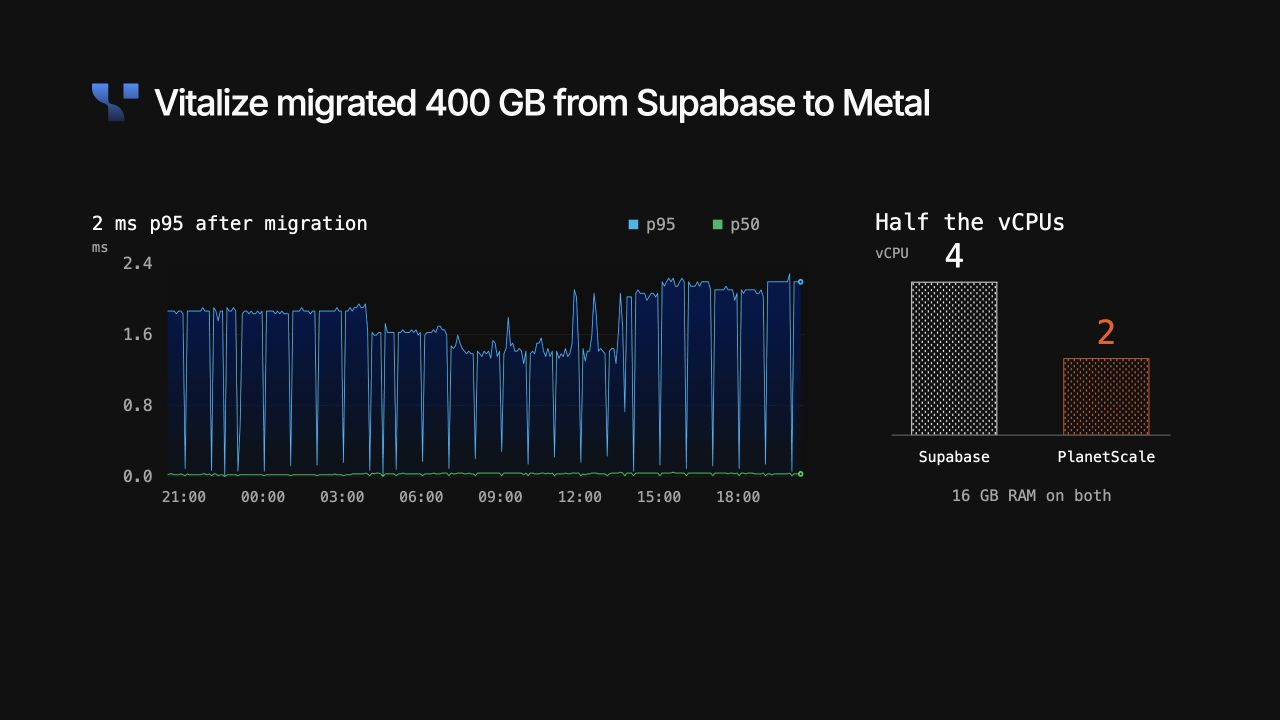
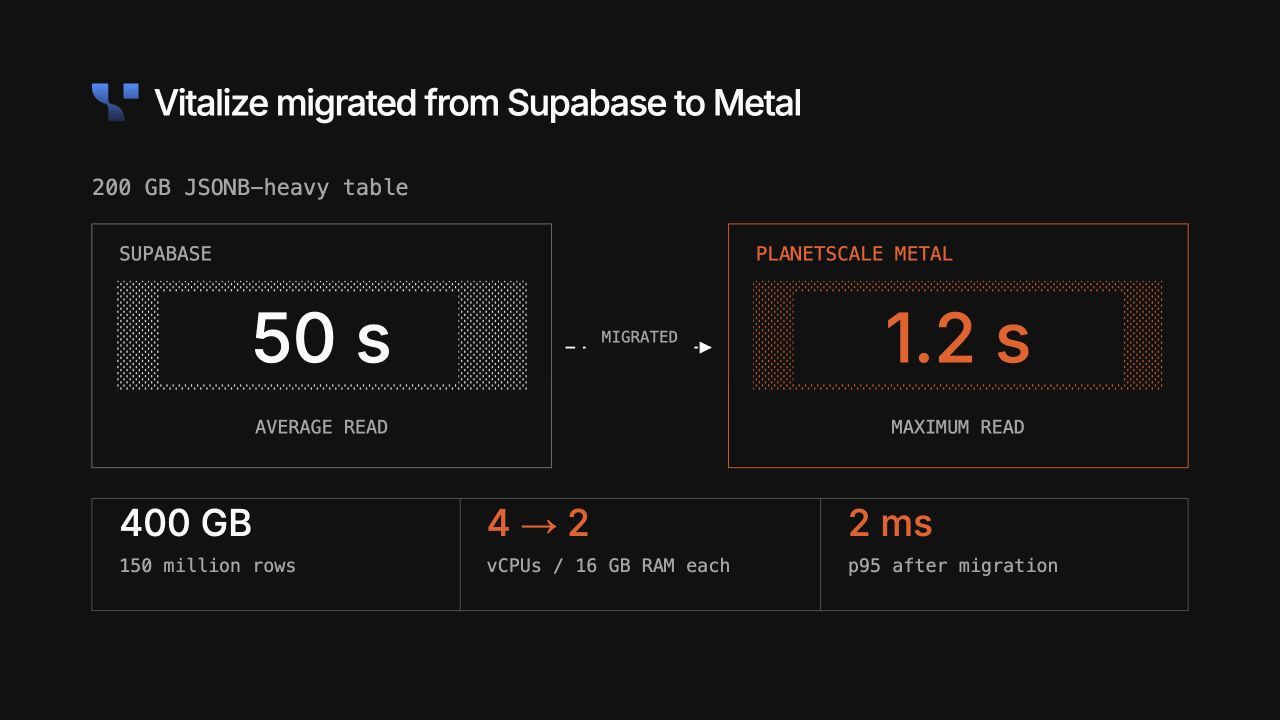
Replace Vitalize post-migration chart with reported before-after story

diff --git a/theme.css b/theme.css
@@ -184,3 +184,7 @@ dialog button{padding:10px 20px;background:#f35815;color:white;border:0;font:15p
 .vitalize-charts{margin-top:50px;padding-top:0;border-top:0;gap:54px}
 .vitalize-charts svg{height:445px}
 .vitalize-charts>div:last-child{border-left:0;padding-left:0}
+
+/* Customer-reported migration comparison replaces the post-migration-only trace. */
+.vitalize-art{margin-top:42px}
+.vitalize-art svg{width:100%;height:auto}

diff --git a/build_content.py b/build_content.py
@@ -89,24 +89,28 @@ b+='</g>'
 b+=txt(575,499,'seconds',16,GRAY,'end',mono=True)
 latency=svg(600,505,b,'One-second benchmark p99 latency samples over 300 seconds, 32 connections. PlanetScale 170.48 to 223.34 ms; Aurora 325.98 to 733 ms; AlloyDB 277.21 to 1235.62 ms; Supabase 196.89 to 1561.52 ms. Linear axis from zero to 1200 milliseconds; values above 1200 are clipped.',mark='p99')
 
-# Vitalize: the customer's original Query Insights plot, not an invented series.
-b=txt(0,24,'2 ms p95 after migration',22,WHITE)
-b+=rect(618,12,11,11,'#00b6ec','none')+txt(638,24,'p95',19,GRAY)+rect(715,12,11,11,'#00b868','none')+txt(735,24,'p50',19,GRAY)
-b+='<defs><clipPath id="vitalize-plot-clip"><rect x="87" y="63" width="737" height="245"/></clipPath></defs><image href="assets/vitalize-query-latency.png" x="12.124" y="-185.969" width="829.865" height="593.918" preserveAspectRatio="none" clip-path="url(#vitalize-plot-clip)"/>'
-for v in [0,0.8,1.6,2.4]:
-    y=308-v/2.4*245
-    b+=txt(70,y+6,f'{v:.1f}',19,GRAY,'end')
-b+=txt(0,49,'ms',16,GRAY)
-for i,label in enumerate(['21:00','00:00','03:00','06:00','09:00','12:00','15:00','18:00']):
-    source_tick=[282,556,830,1103.5,1377,1652,1926,2200][i]
-    b+=txt(87+(source_tick-225)*737/2215,337,label,17,GRAY,'middle')
-vitalize_latency=svg(850,350,b,'Vitalize published 24-hour Query Insights plot: p95 in blue, p50 in green. The original plotted image is preserved.',mark='v-latency')
-b=txt(0,24,'Half the vCPUs',26,WHITE)+txt(0,56,'vCPU',16,GRAY)
-for x,n,provider,col,pat in [(42,4,'Supabase',WHITE,'dots'),(217,2,'PlanetScale',ORANGE,'accent')]:
-    top=260-n*44
-    b+=rect(x,top,98,n*44,f'url(#v-compute-{pat})',col)+txt(x+49,top-17,str(n),38,col,'middle')+txt(x+49,291,provider,17,WHITE,'middle')
-b+=path('M19 260H340','#777777',1)+txt(180,336,'16 GB RAM on both',18,GRAY,'middle')
-vitalize_compute=svg(360,350,b,'Compute comparison: Supabase 4 vCPU, PlanetScale Metal 2 vCPU. Both have 16 GB RAM.',mark='v-compute')
+# Vitalize: customer-reported before/after, with unlike read statistics labeled explicitly.
+b=txt(0,30,'200 GB JSONB-heavy table',25,GRAY)
+b+=rect(0,63,524,278,INK,'#777777')
+b+=rect(726,63,524,278,INK,ORANGE)
+b+=txt(31,105,'SUPABASE',22,GRAY)
+b+=txt(757,105,'PLANETSCALE METAL',22,ORANGE)
+b+=rect(28,128,468,125,'url(#vitalize-art-dots)','none')
+b+=rect(754,128,468,125,'url(#vitalize-art-accent)','none')
+b+=rect(76,140,342,105,INK,'none')
+b+=rect(800,140,376,105,INK,'none')
+b+=txt(262,221,'50 s',78,WHITE,'middle',500,False)
+b+=txt(988,221,'1.2 s',78,ORANGE,'middle',500,False)
+b+=txt(262,302,'AVERAGE READ',21,GRAY,'middle')
+b+=txt(988,302,'MAXIMUM READ',21,GRAY,'middle')
+b+=path('M540 204H706',WHITE,2,True,arrow='vitalize-art')
+b+=rect(563,169,124,42,INK,'none')+txt(625,198,'MIGRATED',18,GRAY,'middle')
+b+=rect(0,376,1250,128,INK,'#555555')
+b+=path('M420 376V504','#555555',1)+path('M831 376V504','#555555',1)
+b+=txt(31,419,'400 GB',42,WHITE,weight=500,mono=False)+txt(31,460,'150 million rows',21,GRAY)
+b+=txt(450,419,'4 → 2',42,ORANGE,weight=500,mono=False)+txt(450,460,'vCPUs / 16 GB RAM each',21,GRAY)
+b+=txt(862,419,'2 ms',42,ORANGE,weight=500,mono=False)+txt(862,460,'p95 after migration',21,GRAY)
+vitalize_art=svg(1250,510,b,'Vitalize moved 400 GB and 150 million rows from Supabase to PlanetScale Metal. On the same 200 GB JSONB-heavy table, Supabase reads averaged 50 seconds and PlanetScale reads maxed out at 1.2 seconds; these are different statistics, not a matched percentile comparison. Compute changed from four to two vCPUs at 16 GB RAM each. After migration, p95 was about two milliseconds.',mark='vitalize-art')
 
 # Migration close: one destination, with a choice of delivery ownership.
 b=db(1,8,380,112,WHITE)
@@ -174,7 +178,7 @@ autumn_plot=svg(905,510,b,'Autumn query latency: approximately 100 milliseconds 
 
 slides=[
  dict(id='opening',label='PlanetScale Postgres on Metal',theme='opening',html=f'''<h1>Postgres on <span class="accent">Metal</span></h1><div class="opening-architecture">{servers}</div>''',notes="1:15. “PlanetScale brings together the database, the hardware, and the team operating it. For your workload, we are proposing fully managed Postgres on Metal, with local NVMe storage. Our platform handles database operations, and our infrastructure team works with you on migration and production.” Point to Neki briefly: “For workloads that eventually outgrow one machine, Neki is our sharded Postgres product.” This is a product overview, not a query path or an automatic upgrade flow. Do not describe replica topology or control-plane internals here; slide 3 covers the architecture. Neki is in Platform Preview and requires a separate compatibility and migration assessment. The immediate offer remains hosted Postgres on Metal. Ask: “Where is your team spending the most time with Postgres today?” Transition: “Vitalize is one Postgres team that made this move.” Sources: https://planetscale.com/metal ; https://planetscale.com/docs/neki ; https://planetscale.com/blog/benchmarking-postgres."),
- dict(id='vitalize',label='Vitalize: 2 ms p95, half the vCPUs',theme='vitalize',html=f'''<div class="case-heading vitalize-heading"><span class="vitalize-title-symbol"><img src="assets/vitalize-symbol.svg" alt=""></span><h2>Vitalize migrated 400 GB from Supabase to Metal</h2></div><div class="vitalize-charts"><div>{vitalize_latency}</div><div>{vitalize_compute}</div></div>''',notes='1:45. “Vitalize runs hospital staffing software. They moved a 400 GB Postgres database with 150 million rows from Supabase to PlanetScale Metal. They report about 2 ms p95 on half the vCPUs, with the same 16 GB of RAM.” Tell the customer story before explaining the graphs: demanding database reads, the move, then the result. The latency plot is their actual PlanetScale Query Insights capture after migration, not a paired before/after percentile. No comparable Supabase p95 is published. The 200 GB JSONB-heavy table comparison separately reports 50-second average reads before and 1.2-second maximum reads after; do not calculate a speedup from unlike statistics. The cutover included taking the app offline. These are customer-reported outcomes, not a guarantee. Transition: “Here is the platform operating that database.” Source: https://vitalize.care/blog/from-supabase-to-planetscale . Other cases and suitable alternatives: docs/customer-case-studies.md.'),
+ dict(id='vitalize',label='Vitalize: 2 ms p95, half the vCPUs',theme='vitalize',html=f'''<div class="case-heading vitalize-heading"><span class="vitalize-title-symbol"><img src="assets/vitalize-symbol.svg" alt=""></span><h2>Vitalize migrated from Supabase to Metal</h2></div><div class="vitalize-art">{vitalize_art}</div>''',notes='1:45. “Vitalize moved a 400 GB Postgres database with 150 million rows from Supabase to PlanetScale Metal. Their 200 GB JSONB-heavy table had reads averaging 50 seconds on Supabase; after the move, they reported reads maxing out at 1.2 seconds on PlanetScale. Those are different summary statistics—average versus maximum—not a like-for-like percentile benchmark. Do not calculate a precise speedup from them. On the same 16 GB RAM, they moved from four vCPUs on Supabase to two on PlanetScale. They report about 2 ms p95 after migration, but do not publish a Supabase p95 comparison. They also reported fewer than 150 usable connections and over 60% CPU time in I/O wait before the move; connections became manageable after. Their cutover involved scaling the app to zero while replication caught up, so do not claim an uninterrupted app cutover despite the blog headline. This is their reported experience, not a performance or migration guarantee. Ask which query, connection, or I/O limit most resembles the prospect’s workload. Transition: “Autumn shows how a team made the migration with PlanetScale.” Source: https://vitalize.care/blog/from-supabase-to-planetscale . Other cases: docs/customer-case-studies.md.'),
  dict(id='availability',label='Postgres Cluster Architecture',theme='availability',html=f'''<div class="title-with-stat"><h2>Postgres Cluster Architecture</h2><div class="sla"><strong>99.99<span>%</span></strong><p>single-region HA SLA</p></div></div><div class="ha-diagram">{ha}</div>''',notes="2:00. “This is one highly available Postgres cluster: three database nodes, each in a different availability zone within the same region. One node is primary; the other two are replicas.” A node (also called an instance in PlanetScale documentation) is an individual database server. An availability zone is the cloud location and failure boundary hosting that node. The whole deployment is a cluster, not one node. A, B, and C are schematic zone labels, not literal provider zone IDs. This depicts the standard three-node HA configuration; additional replicas are possible. Trace application connections, then replication, then operations. The two connection boxes are logical routing choices, not a claim of separate DNS endpoints. Replica reads are explicitly selected with a replica credential/username suffix on direct port 5432; reads must tolerate replication lag. Default PgBouncer connections on 6432 route to the primary; dedicated replica PgBouncers are a separate option. Semi-synchronous replication requires durable confirmation from at least one replica before commit success is returned. PlanetScale's custom Kubernetes operator manages the cluster's provisioning, health, failover, resizing, and upgrades; it is outside the SQL query path. Failovers can interrupt connections, so applications need retries. The 99.99% figure is the single-region monthly uptime commitment under the applicable SLA; it excludes single-node clusters and beta features. Hosted Postgres on Metal remains the offer. Transition: “Local NVMe is the hardware foundation. Let's look at its performance under load.” Verified 2026-09-27. Sources: https://planetscale.com/docs/postgres/postgres-architecture ; https://planetscale.com/docs/postgres/operations-philosophy ; https://planetscale.com/docs/postgres/scaling/replicas ; https://planetscale.com/legal/planetscale-service-level-agreement . Durable terminology: docs/postgres-architecture.md."),
  dict(id='metal',label='Postgres on Metal: throughput and p99',theme='metal',html=f'''<div class="metal-heading"><h2>More QPS &amp; Lower p99 on <span class="metal-title-brand"><span class="metal-title-symbol"><img src="assets/planetscale-white.svg" alt="PlanetScale"></span><span class="accent">Metal</span></span></h2></div><div class="benchmark-grid"><div><h3>Throughput (QPS)</h3>{bars}</div><div><h3>p99 latency</h3><div class="chart-legend"><span class="ps-dot">PlanetScale</span><span class="aurora-dot">Aurora</span><span class="alloydb-dot">AlloyDB</span><span class="supabase-dot">Supabase</span></div>{latency}</div></div>''',notes="1:45. “In this mixed read/write benchmark, Postgres on Metal delivers more throughput and lower p99 than these tested configurations. We can evaluate the same questions against your application.” Left: arithmetic mean QPS across 300 one-second samples with 32 concurrent connections: PlanetScale 16,338.6276; Aurora 10,908.9315; AlloyDB 10,355.0109; Supabase 5,270.2068. Right: one-second interval p99 samples from the same TPCC-like benchmark, not an aggregate run-wide percentile. PlanetScale ranges 170.48–223.34 ms; Aurora 325.98–733 ms; AlloyDB 277.21–1,235.62 ms; Supabase 196.89–1,561.52 ms. All four traces use the matching 32-connection run, with all 300 samples retained and a shared linear 0–1,200 ms axis. Values above 1,200 ms are visually clipped, not changed in the source data. Each provider was benchmarked separately; the horizontal axis is elapsed run time, not simultaneous wall-clock time. Explain the workload aloud: mixed reads and writes, about 500 GB, 32 concurrent connections, five minutes. Higher QPS and lower p99 are distinct findings.\n\nTESTED DATABASE MACHINES (per node)\n- PlanetScale Postgres on Metal: M-320 on AWS i8g; 4 vCPUs, 32 GB RAM, 937 GB local NVMe; AWS us-east-1. Published IOPS setting: unlimited (no separately provisioned IOPS tier, not infinite physical capacity).\n- Amazon Aurora PostgreSQL: db.r8g.xlarge; 4 vCPUs, 32 GB RAM; autoscaling Aurora storage and IOPS; AWS us-east-1.\n- Google AlloyDB: N2; 4 vCPUs, 32 GB RAM; autoscaling storage; IOPS listed as N/A; GCP us-central1.\n- Supabase: 2XLARGE; 8 vCPUs, 32 GB RAM, 750 GB provisioned EBS; IOPS increased to 12,000; AWS us-east-1. Supabase has twice the vCPUs to match the RAM, so the configurations are not identical.\n\nBENCHMARK CLIENT MACHINES\n- AWS tests: c6a.xlarge, 4 vCPUs and 8 GB RAM, in us-east-1.\n- GCP / AlloyDB test: e2-standard-4, 4 vCPUs and 16 GB RAM, in us-central1.\n- Clients run in the same region as their database. Same availability-zone placement is not guaranteed for this TPCC-like test.\n\nRUN SETTINGS\n- Percona sysbench TPCC-like mixed reads and writes; approximately 500 GB; TABLES=20, SCALE=250.\n- This slide selects 32 concurrent connections, 300 seconds, one-second reports, and p99.\n- PostgreSQL settings use provider defaults except connection limits/timeouts where needed for the benchmark.\n- PlanetScale has a primary and two HA replicas, each with the listed resources. The measured load uses the primary only; the graph does not sum throughput across three nodes.\n\nINTERPRETATION\n These are vendor-run synthetic results with different hardware and infrastructure, not isolated proof that NVMe causes every difference. The site's rounded ~18k headline spans other runs; this deck deliberately uses a single concurrency and exact samples. A separate read-only test has roughly equal average throughput for Aurora and PlanetScale, so do not claim every workload is faster by this ratio. Ask: “Which workload would we need to reproduce for this to matter to you?” Validate p95/p99, throughput, errors, and resource use in discovery. Transition: “When one machine becomes the constraint, Neki extends the architecture across Postgres shards.” Sources: https://planetscale.com/benchmarks ; https://planetscale.com/benchmarks/aurora ; https://planetscale.com/benchmarks/alloydb ; https://planetscale.com/benchmarks/supabase . Data definitions: docs/postgres-metal-benchmarks.md."),
  dict(id='neki',label='Neki: Horizontal Scaling for Postgres',theme='neki',html=f'''<div class="neki-heading"><h2>Neki: Horizontal Scaling for Postgres</h2><div class="neki-lockup"><img src="assets/neki-cat.svg" alt="Neki"></div></div><div class="neki-topology">{neki}</div>''',notes="1:15. “Neki is our sharded Postgres architecture. Every shard is real Postgres, with routing and operations managed as one database.” Walk from the application to the router, then one shard group, then the control plane. Sidecars pool connections; shard primaries and replicas carry data. The diagram represents replicated HA shard groups, not the primary-only benchmark on the next slide. Say that Neki is available in Platform Preview as of the verified documentation on 27 September 2026; it is not covered by an SLA. The public site's “now available” wording does not mean general availability. Cross-shard transactions remain listed as coming soon. Evaluate shard keys, query/transaction compatibility and the transition from the current database with the team. Do not imply an automatic in-place conversion from ordinary PlanetScale Postgres. The immediate sale remains hosted Postgres on Metal. Transition: “The benchmark demonstrates how far this architecture can scale for a defined workload.” Sources: https://neki.dev/ ; https://planetscale.com/docs/neki ; https://planetscale.com/blog/the-architecture-of-neki ."),
@@ -191,7 +195,6 @@ slides=[slides_by_id[slide_id] for slide_id in slide_order]
 notes_fixes={
  'opening': [('slide 3 covers the architecture','slide 5 covers the architecture'),('Transition: “Vitalize is one Postgres team that made this move.”','Transition: “Convex is one production team that moved from Aurora.”')],
  'convex': [('Transition: “Autumn shows what the migration partnership can look like.”','Transition: “Vitalize is another Postgres workload that moved to Metal.”')],
- 'vitalize': [('Transition: “Here is the platform operating that database.”','Transition: “Autumn shows how a team made the migration with PlanetScale.”')],
  'autumn': [('Transition: “Let’s map what a migration would involve for your team.”','Transition: “Here is the architecture behind the managed Postgres platform.”')],
  'metal': [('Transition: “When one machine becomes the constraint, Neki extends the architecture across Postgres shards.”','Transition: “When one machine becomes the constraint, Neki extends the architecture across Postgres shards.”')],
  'neki-scale': [('Transition: “Convex shows how a production workload benefited from the move to PlanetScale.”','Transition: “Let’s map what a migration would involve for your team.”')],
